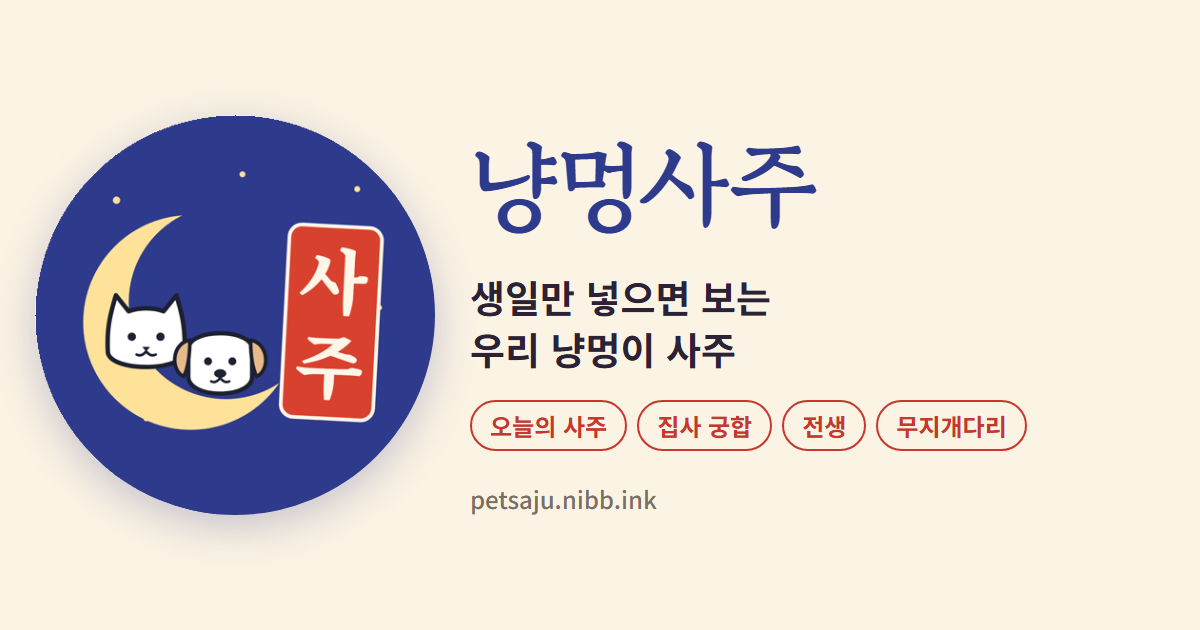
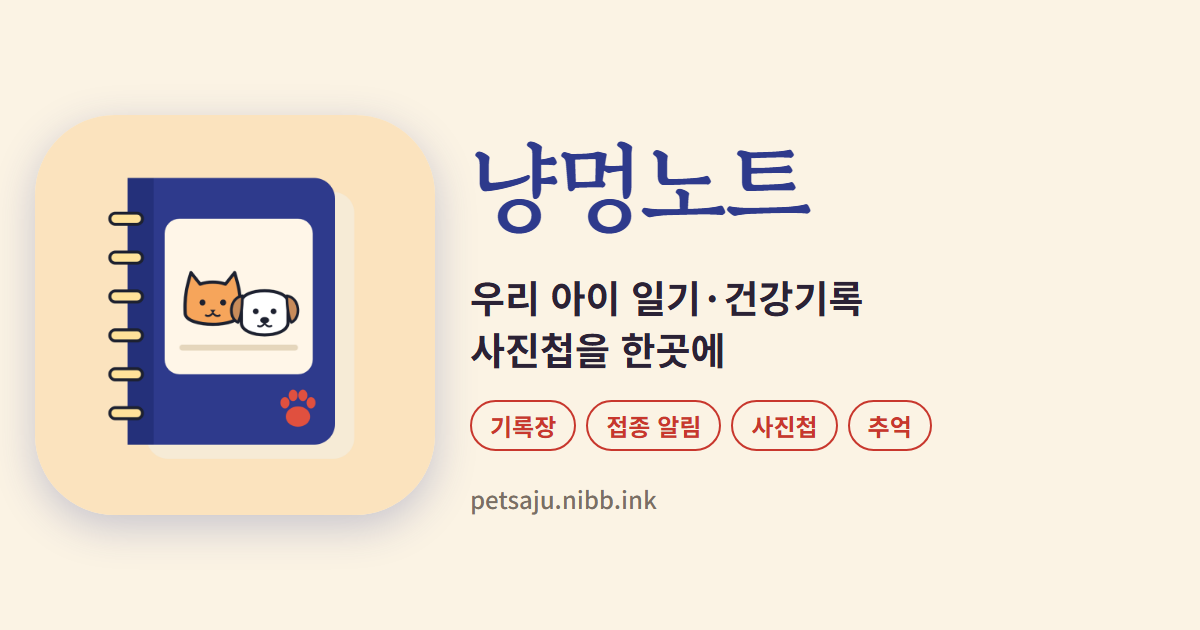
냥멍노트로 이름 변경, 기록장 소개와 개인정보처리방침 갱신

Changed region(s): [[0.0308, 0.181, 0.74, 0.8444], [0.4008, 0.6333, 0.8633, 0.7238], [0.5242, 0.2111, 0.6783, 0.3619]]

diff --git a/index.html b/index.html
@@ -1,4 +1,4 @@
-<!doctype html><html lang="ko"><head><meta charset="utf-8"><meta name="viewport" content="width=device-width,initial-scale=1"><title>냥멍사주 - 반려묘·반려견 사주</title><meta name="description" content="생일만 넣으면 보는 우리 냥멍이 사주. 오늘의 사주, 집사 궁합, 전생, 무지개다리까지."><meta property="og:type" content="website"><meta property="og:site_name" content="냥멍사주"><meta property="og:title" content="냥멍사주 - 우리 냥멍이 사주"><meta property="og:description" content="생일만 넣으면 보는 우리 냥멍이 사주. 오늘의 사주 · 집사 궁합 · 전생 · 무지개다리"><meta property="og:url" content="https://petsaju.nibb.ink/"><meta property="og:image" content="https://petsaju.nibb.ink/og.png"><meta property="og:image:width" content="1200"><meta property="og:image:height" content="630"><meta name="twitter:card" content="summary_large_image"><meta name="twitter:image" content="https://petsaju.nibb.ink/og.png"><link rel="icon" href="og-icon.png"><link rel="stylesheet" href="style.css">
+<!doctype html><html lang="ko"><head><meta charset="utf-8"><meta name="viewport" content="width=device-width,initial-scale=1"><title>냥멍노트 - 반려동물 기록장·사진첩</title><meta name="description" content="우리 아이 일기·몸무게·예방접종·병원 기록과 아이별 사진첩. 다음 일정은 알림으로 챙겨요."><meta property="og:type" content="website"><meta property="og:site_name" content="냥멍노트"><meta property="og:title" content="냥멍노트 - 반려동물 기록장·사진첩"><meta property="og:description" content="우리 아이 일기·몸무게·예방접종·병원 기록과 아이별 사진첩. 다음 일정은 알림으로 챙겨요."><meta property="og:url" content="https://petsaju.nibb.ink/"><meta property="og:image" content="https://petsaju.nibb.ink/og.png"><meta property="og:image:width" content="1200"><meta property="og:image:height" content="630"><meta name="twitter:card" content="summary_large_image"><meta name="twitter:image" content="https://petsaju.nibb.ink/og.png"><link rel="icon" href="og-icon.png"><link rel="stylesheet" href="style.css">
 <style>
 .hero{text-align:center;padding:28px 0 8px}.hero img{width:132px;height:132px;border-radius:50%;box-shadow:0 10px 30px rgba(46,58,140,.25)}
 .hero h1{font-size:34px;margin:16px 0 4px;color:var(--accent)}.hero p{margin:0;font-size:18px;font-weight:600}
@@ -11,20 +11,20 @@
 .feat div{background:var(--surface);border:1px solid var(--line);border-radius:14px;padding:14px}.feat b{display:block;font-size:15px}.feat span{font-size:13px;color:var(--muted)}
 .note{text-align:center;font-size:13px;color:var(--muted)}
 </style></head><body><main>
-<section class="hero"><img src="og-icon.png" alt="냥멍사주 로고"><h1>냥멍사주</h1><p>생일만 넣으면 보는 우리 냥멍이 사주</p></section>
+<section class="hero"><img src="og-icon.png" alt="냥멍노트 로고" style="border-radius:28px"><h1>냥멍노트</h1><p>우리 아이 일기·건강기록·사진첩</p></section>
 <div class="stores">
 <a id="and" class="store" href="https://play.google.com/store/apps/details?id=kr.nyangmeong.saju"><svg viewBox="0 0 24 24"><path d="M3.6 1.8 13.4 12l-9.8 10.2c-.4-.2-.6-.6-.6-1.1V2.9c0-.5.2-.9.6-1.1Zm10.9 11.3 2.6 2.6-11.4 6.5 8.8-9.1Zm3.9-3.8 3 1.7c.8.5.8 1.6 0 2l-3 1.8-2.9-2.8 2.9-2.7ZM5.7 1.8l11.4 6.5-2.6 2.6-8.8-9.1Z"/></svg><span><small>안드로이드</small><b>Google Play에서 받기</b></span></a>
 <a id="ios" class="store" href="https://apps.apple.com/kr/app/id6836223771"><svg viewBox="0 0 24 24"><path d="M16.4 12.6c0-2.5 2-3.6 2.1-3.7-1.2-1.7-3-1.9-3.6-2-1.5-.2-3 .9-3.8.9-.8 0-2-.9-3.3-.9-1.7 0-3.3 1-4.2 2.5-1.8 3.1-.5 7.7 1.3 10.2.9 1.2 1.9 2.6 3.2 2.6 1.3-.1 1.8-.8 3.3-.8s2 .8 3.3.8c1.4 0 2.3-1.3 3.1-2.5 1-1.4 1.4-2.8 1.4-2.9-.1 0-2.8-1-2.8-4.2ZM14 5.2c.7-.8 1.2-2 1-3.2-1 0-2.3.7-3 1.5-.7.8-1.2 2-1.1 3.1 1.2.1 2.3-.6 3.1-1.4Z"/></svg><span><small id="iosSub">아이폰</small><b>App Store에서 받기</b></span></a>
 </div>
 <p class="note" id="iosNote" hidden>아이폰 버전은 애플 심사 중이에요. 곧 만나요!</p>
 <div class="feat">
-<div><b>오늘의 사주</b><span>매일 바뀌는 우리 아이 하루 운세</span></div>
-<div><b>집사 궁합</b><span>나와 우리 아이의 인연과 궁합</span></div>
-<div><b>전생 · 속마음</b><span>우리 아이는 전생에 뭐였을까</span></div>
-<div><b>무지개다리</b><span>하늘나라에서 지금 뭐하고 있을까</span></div>
+<div><b>기록장</b><span>일기·몸무게·예방접종·병원·약·미용</span></div>
+<div><b>일정 알림</b><span>다음 접종·약 먹는 날 미리 알려 줘요</span></div>
+<div><b>아이별 사진첩</b><span>사진·동영상을 아이마다 따로</span></div>
+<div><b>재미 사주</b><span>생일로 보는 오늘의 한마디</span></div>
 </div>
-<div class="card"><p>생일만 넣으면 우리 고양이·강아지의 성격, 사람 나이, 오늘의 사주, 전생, 속마음, 신년운세, 집사와의 인연과 궁합을 풀어 드려요. 우리 아이 사진첩도 아이마다 따로 만들 수 있어요.</p></div>
-<footer>몬타나 주식회사 · 대표 김석 · 사업자등록번호 148-87-01772 · 통신판매업 제2026-부산동래-0486호<br>부산광역시 동래구 쇠미로129번길 62-12, 106동 202호 · 010-8712-8635 · support@zzend.app<br><a href="./">냥멍사주</a> · <a href="privacy.html">개인정보처리방침</a> · <a href="terms.html">이용약관</a> · <a href="support.html">문의</a></footer></main>
+<div class="card"><p>고양이·강아지와 함께하는 하루하루를 기록해요. 함께한 날, 사람 나이, 몸무게 변화와 다가오는 일정을 한눈에 보고, 사진과 동영상은 아이마다 폴더로 모아 둬요. 먼저 떠난 아이와의 추억도 오래 간직할 수 있어요. 기록은 모두 휴대폰 안에만 저장돼요.</p></div>
+<footer>몬타나 주식회사 · 대표 김석 · 사업자등록번호 148-87-01772 · 통신판매업 제2026-부산동래-0486호<br>부산광역시 동래구 쇠미로129번길 62-12, 106동 202호 · 010-8712-8635 · support@zzend.app<br><a href="./">냥멍노트</a> · <a href="privacy.html">개인정보처리방침</a> · <a href="terms.html">이용약관</a> · <a href="support.html">문의</a></footer></main>
 <script>
 var IOS_LIVE=false; // 애플 승인 후 true
 var ua=navigator.userAgent,ios=/iPhone|iPad|iPod/i.test(ua)||(/Macintosh/.test(ua)&&'ontouchend' in document),and=/Android/i.test(ua);

diff --git a/privacy.html b/privacy.html
@@ -1,8 +1,8 @@
-<!doctype html><html lang="ko"><head><meta charset="utf-8"><meta name="viewport" content="width=device-width,initial-scale=1"><title>개인정보처리방침 - 냥멍사주</title><link rel="stylesheet" href="style.css"></head><body><main><h1>개인정보처리방침</h1><p class="muted">시행일 2026년 11월 18일 · 몬타나 주식회사(이하 "회사")</p>
-<h2>1. 수집하는 정보</h2><p>냥멍사주 앱은 회원가입이 없고, 회사 서버로 개인정보를 보내지 않습니다. 이용자가 입력한 반려동물·보호자의 이름(별명), 종류, 생년월일, 태어난 시간, 무지개다리를 건넌 날은 <b>이용자의 휴대폰 안에만</b> 저장되며 풀이 계산도 휴대폰 안에서 이루어집니다.</p>
+<!doctype html><html lang="ko"><head><meta charset="utf-8"><meta name="viewport" content="width=device-width,initial-scale=1"><title>개인정보처리방침 - 냥멍노트</title><link rel="stylesheet" href="style.css"></head><body><main><h1>개인정보처리방침</h1><p class="muted">시행일 2026년 11월 18일 · 몬타나 주식회사(이하 "회사")</p>
+<h2>1. 수집하는 정보</h2><p>냥멍노트 앱은 회원가입이 없고, 회사 서버로 개인정보를 보내지 않습니다. 이용자가 입력한 반려동물·보호자의 이름(별명), 종류, 생년월일, 태어난 시간, 처음 만난 날, 무지개다리를 건넌 날, 그리고 기록장(일기·몸무게·예방접종·병원·약·미용 기록)과 사진첩에 올린 사진·동영상은 <b>이용자의 휴대폰 안에만</b> 저장되며 풀이 계산도 휴대폰 안에서 이루어집니다.</p>
 <h2>2. 결제</h2><p>유료 풀이 결제는 Apple App Store 또는 Google Play가 처리합니다. 회사는 카드번호 등 결제 정보를 받지 않으며, 구매 여부는 스토어가 기기에 알려 준 정보로만 확인합니다.</p>
-<h2>3. 알림</h2><p>"매일 아침 오늘의 사주 알림"을 켜면 휴대폰이 직접 알림을 예약합니다. 알림 내용은 회사 서버를 거치지 않습니다.</p>
+<h2>3. 알림</h2><p>기록에 다음 예정일을 넣거나 "매일 아침 오늘의 한마디 알림"을 켜면 휴대폰이 직접 알림을 예약합니다. 알림 내용은 회사 서버를 거치지 않습니다.</p>
 <h2>4. 제3자 제공·위탁</h2><p>회사가 보관하는 개인정보가 없으므로 제3자에게 제공하거나 처리를 위탁하지 않습니다.</p>
-<h2>5. 삭제</h2><p>앱에서 가족을 삭제하거나 앱을 지우면 입력한 정보가 모두 사라집니다.</p>
+<h2>5. 삭제</h2><p>앱에서 기록·사진이나 가족을 삭제하거나 앱을 지우면 입력한 정보가 모두 사라집니다. 앱을 지우기 전에 필요한 사진은 휴대폰 사진 보관함에 따로 보관해 주세요.</p>
 <h2>6. 문의</h2><p>개인정보 보호책임자: 김석 · support@zzend.app · 010-8712-8635</p>
-<footer>몬타나 주식회사 · 대표 김석 · 사업자등록번호 148-87-01772 · 통신판매업 제2026-부산동래-0486호<br>부산광역시 동래구 쇠미로129번길 62-12, 106동 202호 · 010-8712-8635 · support@zzend.app<br><a href="./">냥멍사주</a> · <a href="privacy.html">개인정보처리방침</a> · <a href="terms.html">이용약관</a> · <a href="support.html">문의</a></footer></main></body></html>
+<footer>몬타나 주식회사 · 대표 김석 · 사업자등록번호 148-87-01772 · 통신판매업 제2026-부산동래-0486호<br>부산광역시 동래구 쇠미로129번길 62-12, 106동 202호 · 010-8712-8635 · support@zzend.app<br><a href="./">냥멍노트</a> · <a href="privacy.html">개인정보처리방침</a> · <a href="terms.html">이용약관</a> · <a href="support.html">문의</a></footer></main></body></html>

diff --git a/terms.html b/terms.html
@@ -1,8 +1,8 @@
-<!doctype html><html lang="ko"><head><meta charset="utf-8"><meta name="viewport" content="width=device-width,initial-scale=1"><title>이용약관 - 냥멍사주</title><link rel="stylesheet" href="style.css"></head><body><main><h1>이용약관</h1><p class="muted">시행일 2026년 11월 18일</p>
-<h2>제1조 (목적)</h2><p>이 약관은 몬타나 주식회사가 제공하는 냥멍사주 앱(이하 "서비스")의 이용 조건을 정합니다.</p>
+<!doctype html><html lang="ko"><head><meta charset="utf-8"><meta name="viewport" content="width=device-width,initial-scale=1"><title>이용약관 - 냥멍노트</title><link rel="stylesheet" href="style.css"></head><body><main><h1>이용약관</h1><p class="muted">시행일 2026년 11월 18일</p>
+<h2>제1조 (목적)</h2><p>이 약관은 몬타나 주식회사가 제공하는 냥멍노트 앱(이하 "서비스")의 이용 조건을 정합니다.</p>
 <h2>제2조 (서비스 내용)</h2><p>서비스는 입력한 생년월일을 바탕으로 반려동물과 보호자의 사주 풀이, 궁합, 운세, 추억 콘텐츠를 제공합니다. 모든 콘텐츠는 오락 목적이며 의학적·수의학적 진단이나 조언을 대신하지 않습니다.</p>
 <h2>제3조 (유료 콘텐츠)</h2><p>유료 풀이는 품목별 상품(속마음·행운, 전생, 신년·올해 운세, 궁합 상세, 집사와의 인연, 무지개다리)과 이를 모두 포함한 "전체 리포트" 상품이 있으며, 모두 1회 결제 상품이고 구독이 아닙니다. 결제하면 같은 스토어 계정에서 등록한 모든 아이의 해당 풀이를 기간 제한 없이 볼 수 있고, 앱을 다시 설치하면 "구매 복원"으로 다시 열 수 있습니다.</p>
 <h2>제4조 (청약철회와 환불)</h2><p>결제와 환불은 Apple App Store 또는 Google Play의 환불 정책을 따릅니다. 앱스토어는 reportaproblem.apple.com, 구글 플레이는 Play 스토어 앱의 주문 내역에서 환불을 요청할 수 있습니다.</p>
 <h2>제5조 (책임의 한계)</h2><p>회사는 풀이 내용의 정확성이나 특정 결과를 보장하지 않습니다.</p>
 <h2>제6조 (문의)</h2><p>support@zzend.app</p>
-<footer>몬타나 주식회사 · 대표 김석 · 사업자등록번호 148-87-01772 · 통신판매업 제2026-부산동래-0486호<br>부산광역시 동래구 쇠미로129번길 62-12, 106동 202호 · 010-8712-8635 · support@zzend.app<br><a href="./">냥멍사주</a> · <a href="privacy.html">개인정보처리방침</a> · <a href="terms.html">이용약관</a> · <a href="support.html">문의</a></footer></main></body></html>
+<footer>몬타나 주식회사 · 대표 김석 · 사업자등록번호 148-87-01772 · 통신판매업 제2026-부산동래-0486호<br>부산광역시 동래구 쇠미로129번길 62-12, 106동 202호 · 010-8712-8635 · support@zzend.app<br><a href="./">냥멍노트</a> · <a href="privacy.html">개인정보처리방침</a> · <a href="terms.html">이용약관</a> · <a href="support.html">문의</a></footer></main></body></html>

diff --git a/support.html b/support.html
@@ -1,7 +1,7 @@
-<!doctype html><html lang="ko"><head><meta charset="utf-8"><meta name="viewport" content="width=device-width,initial-scale=1"><title>문의 - 냥멍사주</title><link rel="stylesheet" href="style.css"></head><body><main><h1>문의하기</h1>
+<!doctype html><html lang="ko"><head><meta charset="utf-8"><meta name="viewport" content="width=device-width,initial-scale=1"><title>문의 - 냥멍노트</title><link rel="stylesheet" href="style.css"></head><body><main><h1>문의하기</h1>
 <div class="card"><p>이메일: <b>support@zzend.app</b><br>전화: 010-8712-8635 (평일 10:00–18:00)</p><p class="muted">결제 관련 문의는 구매한 스토어 계정 이메일과 결제 날짜를 함께 알려 주세요.</p></div>
 <h2>자주 묻는 질문</h2>
 <p><b>휴대폰을 바꿨는데 산 풀이가 잠겨 있어요.</b><br>앱의 더보기 → 구매 복원을 눌러 주세요. 같은 스토어 계정이면 다시 열려요.</p>
 <p><b>아이 정보가 사라졌어요.</b><br>아이 정보는 휴대폰 안에만 저장돼요. 앱을 지우면 함께 지워지니 다시 등록해 주세요.</p>
 <p><b>태어난 시간을 몰라요.</b><br>시간 없이도 풀이할 수 있어요. 생일을 모르면 입양한 날로 넣어도 괜찮아요.</p>
-<footer>몬타나 주식회사 · 대표 김석 · 사업자등록번호 148-87-01772 · 통신판매업 제2026-부산동래-0486호<br>부산광역시 동래구 쇠미로129번길 62-12, 106동 202호 · 010-8712-8635 · support@zzend.app<br><a href="./">냥멍사주</a> · <a href="privacy.html">개인정보처리방침</a> · <a href="terms.html">이용약관</a> · <a href="support.html">문의</a></footer></main></body></html>
+<footer>몬타나 주식회사 · 대표 김석 · 사업자등록번호 148-87-01772 · 통신판매업 제2026-부산동래-0486호<br>부산광역시 동래구 쇠미로129번길 62-12, 106동 202호 · 010-8712-8635 · support@zzend.app<br><a href="./">냥멍노트</a> · <a href="privacy.html">개인정보처리방침</a> · <a href="terms.html">이용약관</a> · <a href="support.html">문의</a></footer></main></body></html>
